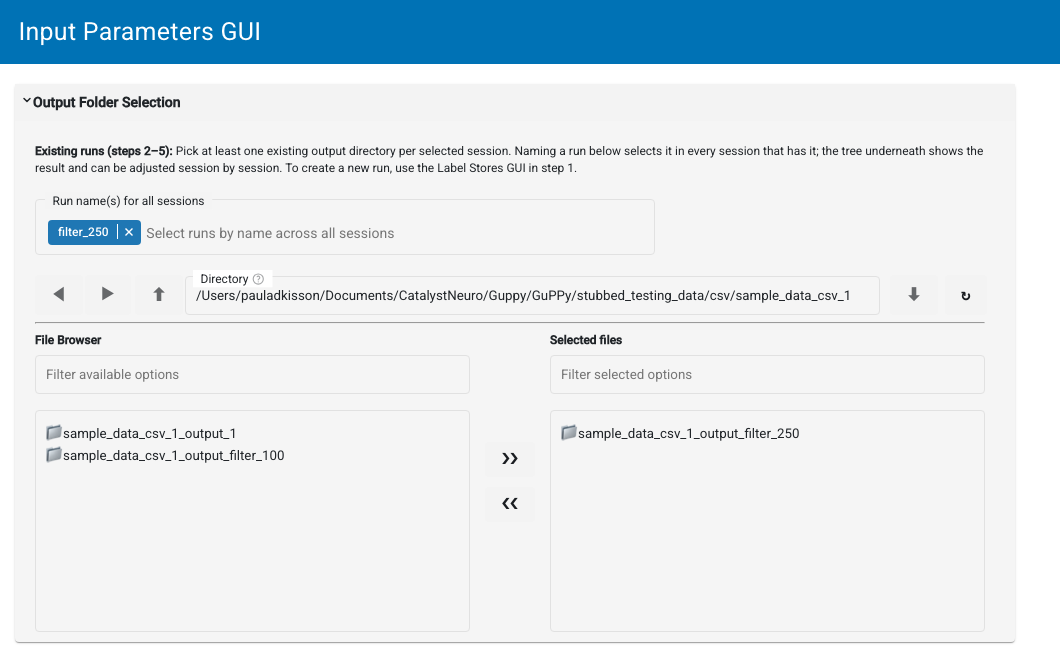
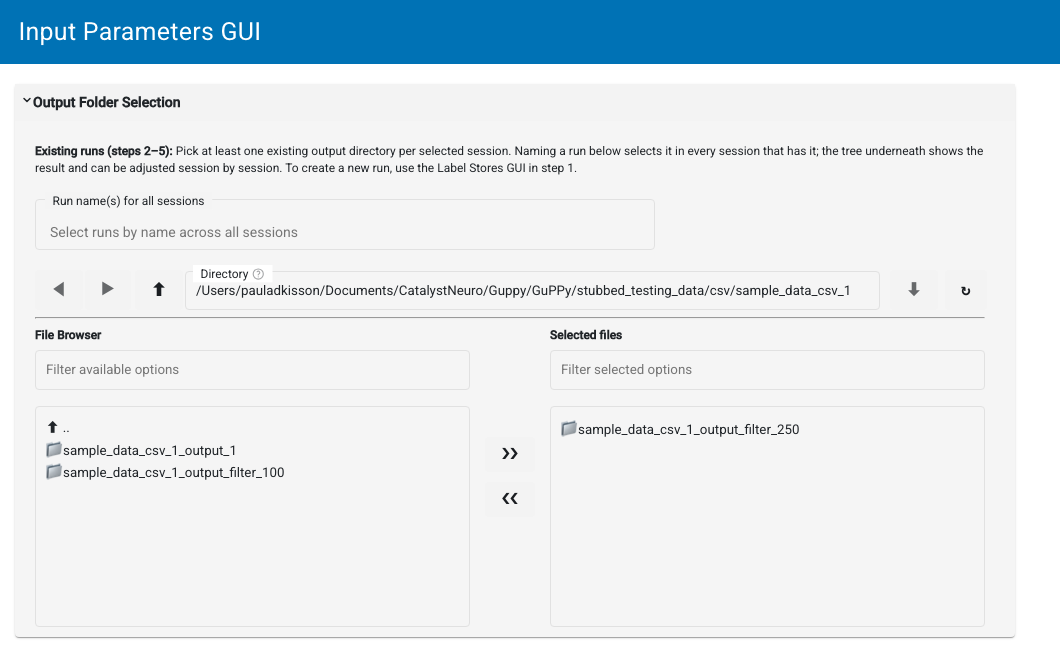
Limit the docs change to the parameter reference
The tutorials and how-to describe picking runs in the folder browser, which
still works exactly as written; only the parameter reference has to grow the
new picker. The compare-parameters screenshot is regenerated because the card
is taller, driven the way it was before so it still illustrates the browser.

diff --git a/docs/take_screenshots.py b/docs/take_screenshots.py
@@ -780,17 +780,18 @@ def screenshot_compare_parameters_existing_runs(page: Page) -> None:
         run_folder.mkdir(exist_ok=True)
 
     try:
-        # Drive the card directly rather than through the homepage: only this one card
-        # is in shot, and selecting the session in the served input browser would take
-        # several dependent clicks first. Choosing the run by name is also what moves the
-        # entry into the browser's "Selected files" pane — setting FileSelector.value
-        # alone updates the parameter without redrawing the panes.
+        # Drive the card directly rather than through the homepage: selecting a run
+        # in a served FileSelector takes several dependent clicks, and only this one
+        # card is in shot. Assigning the inner cross-selector's value is what moves
+        # an entry into the "Selected files" pane; setting FileSelector.value alone
+        # updates the parameter without redrawing the panes.
         form = ParameterForm(
             template=pn.template.MaterialTemplate(title="Input Parameters GUI"),
             start_path=str(SAMPLE_DATA_DIR.parent),
         )
-        form.files_1.value = [str(SAMPLE_DATA_DIR)]
-        form.run_names_for_all_sessions.value = ["filter_250"]
+        form.outputs_selector._directory.value = str(SAMPLE_DATA_DIR)
+        form.outputs_selector._update_files()
+        form.outputs_selector._selector.value = [str(run_folders[2])]
         form.output_folder_selection.collapsed = False
 
         template = pn.template.MaterialTemplate(title="Input Parameters GUI")
@@ -798,7 +799,7 @@ def screenshot_compare_parameters_existing_runs(page: Page) -> None:
         url = _serve(template)
 
         page.goto(url)
-        page.get_by_text("Run name(s) for all sessions").first.wait_for()
+        page.get_by_text("Existing runs (steps 2–5)").first.wait_for()
         page.wait_for_timeout(1500)
         page.screenshot(
             path=OUTPUT_DIR / "compare_parameters_existing_runs.png",

diff --git a/docs/tutorials/compare_parameters.md b/docs/tutorials/compare_parameters.md
@@ -63,9 +63,9 @@ Run names may not be empty, contain path separators or `..`, or contain the subs
 
 ## Analyze it with the default filter window
 
-Back on the homepage, open **Output Folder Selection** and set **Run name(s) for all
-sessions** to `filter_100` — and only that one. The picker ticks the matching run folder in
-the browser below it. Every step you run acts on the runs selected there.
+Back on the homepage, open **Output Folder Selection** and, under **Existing runs (steps
+2–5)**, select `sample_data_csv_1_output_filter_100` — and only that one. Every step you
+run acts on the runs selected here.
 
 Leave the parameters at their defaults; **Window for Moving Average filter (int)** is
 already `100`, which is the parameter set this run is named for.
@@ -93,12 +93,12 @@ which would throw away the result you just computed.
 
 ## Analyze it with a wider filter window
 
-Back on the homepage, open **Output Folder Selection** again. Both runs are now offered
-under **Run name(s) for all sessions**. Select `filter_250` and clear `filter_100`, leaving
-only `sample_data_csv_1_output_filter_250` under **Selected files**.
+Back on the homepage, open **Output Folder Selection** again. Both runs are now listed
+under **Existing runs (steps 2–5)**. Select `sample_data_csv_1_output_filter_250`, and
+make sure the first run is *not* selected.
 
 ```{image} ../_static/images/compare_parameters_existing_runs.png
-:alt: The Output Folder Selection card with filter_250 chosen in the Run name(s) for all sessions picker and sample_data_csv_1_output_filter_250 moved into the browser's Selected files list below it
+:alt: The Output Folder Selection card's file browser listing the session's three run folders, sample_data_csv_1_output_1 and sample_data_csv_1_output_filter_100 on the left, with sample_data_csv_1_output_filter_250 moved into the Selected files list
 :width: 100%
 ```
 
@@ -127,8 +127,8 @@ defeat the comparison.
 
 ## Compare the two runs
 
-Select **both** run names under **Run name(s) for all sessions**, then click **Open
-Visualization GUI**. GuPPy opens one dashboard per selected run, each in its own browser tab, so you can
+Select **both** runs under **Existing runs (steps 2–5)**, then click **Open Visualization
+GUI**. GuPPy opens one dashboard per selected run, each in its own browser tab, so you can
 flip between them with the same event and view selected.
 
 Selecting two runs whose saved parameters differ shows the notification "Selected output

diff --git a/docs/tutorials/first_analysis.md b/docs/tutorials/first_analysis.md
@@ -80,7 +80,7 @@ Each parameter is documented in the parameter reference.
 <!-- TODO: link to docs/reference/parameters.md (per-parameter reference: type, default, valid range, effect) once that page exists. -->
 
 :::{note}
-There is no separate "save parameters" action. Each pipeline step records the parameters it ran with into its output folder as `GuPPyParamtersUsed.json`, so that file always reflects the configuration that was actually applied. If you come back later, reselect that run under **Output Folder Selection**, and GuPPy reloads that run's saved parameters into the form so you can continue (for example, run Preprocess and PSTH) without accidentally overwriting them.
+There is no separate "save parameters" action. Each pipeline step records the parameters it ran with into its output folder as `GuPPyParamtersUsed.json`, so that file always reflects the configuration that was actually applied. If you come back later, reselect an existing output folder under **Output Folder Selection**, and GuPPy reloads that run's saved parameters into the form so you can continue (for example, run Preprocess and PSTH) without accidentally overwriting them.
 :::
 
 

diff --git a/docs/how-to/combine-data.md b/docs/how-to/combine-data.md
@@ -51,8 +51,8 @@ halves must use the same run name.
    :width: 100%
    ```
 
-4. Open **Output Folder Selection** and set **Run name(s) for all sessions** to the run
-   name both halves share (e.g. `1`), which selects each session's `..._output_1`.
+4. Open **Output Folder Selection** and, in **Existing runs (steps 2–5)**,
+   pick each session's matching output run (e.g. both `..._output_1`).
 5. In the **Individual Analysis** card, set **Combine Data?** to `True` (next
    to **# of cores** — see the [parameters screenshot](../tutorials/first_analysis.md#set-parameters)
    in the getting-started tutorial for where this sits).
